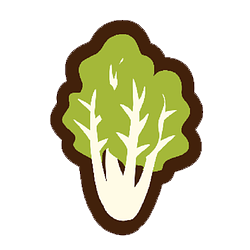
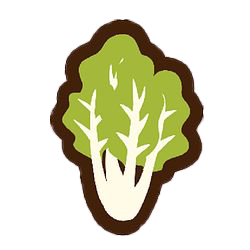
New1

diff --git a/webdevA2/index.html b/webdevA2/index.html
@@ -50,7 +50,7 @@
     <article class="macro-slide active" id="carbs">
       <h4>Carbohydrates</h4>
       <p>Carbohydrates are the main energy source for your body and are found in various foods like fruits, vegetables, grains, and dairy products.<br>Carbohydrates are classified into sugars, starches, and fiber, each playing a unique role in providing energy and supporting bodily functions. </p>
-      <img src="images/carbohydrates.png" alt="Carbohydrates Image">
+      <img src="images/carbohydrates.jpg" alt="Carbohydrates Image">
       
     <div class="carb-types">
   <div class="carb-card">
@@ -79,7 +79,7 @@
   <h4>Proteins</h4>
   <p>Proteins are essential for the body's growth, repair, and overall function. <br>They are split into 3 categories, complete, incomplete and complementary proteins.<br>
     Composed of amino acids, the building blocks the body uses to create new proteins.</p>
-  <img src="images/proteins.png" alt="Proteins Image">
+  <img src="images/proteins.jpg" alt="Proteins Image">
 
   <div class="carb-types">
     <div class="carb-card">
@@ -110,7 +110,7 @@
     <br>Fats serve as an energy storage as they are stored in the body as adipose tissue, providing a reserve of energy for later use.
     <br>Helps to maintain body temperature by providing insulation against cold.
   </p>
-  <img src="images/fats.png" alt="Fats Image">
+  <img src="images/fats.jpg" alt="Fats Image">
 
   <div class="carb-types">
     <div class="carb-card">
@@ -162,14 +162,14 @@
     <section id="guidelines" class="panel">
       <h2>Dietary Guidelines</h2>
       <p>Follow official guidelines to maintain a healthy weight, stay active, and prevent chronic diseases.</p>
-      <img src="images/dietaryguidelines.png" alt="Dietary Guidelines" />
+      <img src="images/dietaryguidelines.jpg" alt="Dietary Guidelines" />
     </section>
 
     <!-- FOOD LABELS -->
     <section id="labels" class="panel">
       <h2>Food Labels</h2>
       <p>Understanding food labels helps you make informed food choices and control your nutrient intake.</p>
-      <img src="images/food-label.png" alt="Food Label Example" />
+      <img src="images/food-label.jpg" alt="Food Label Example" />
     </section>
 
     <!-- MINI-GAME -->
